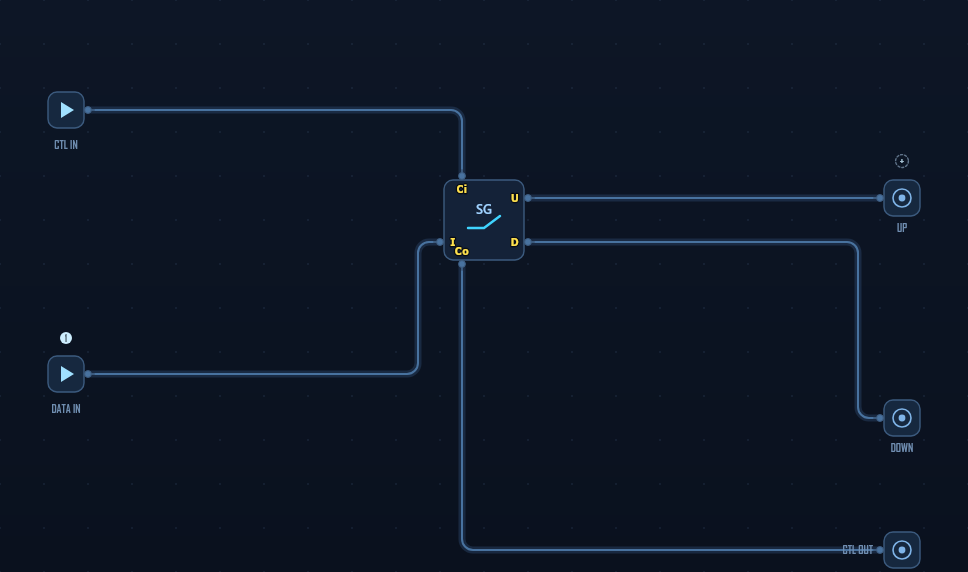
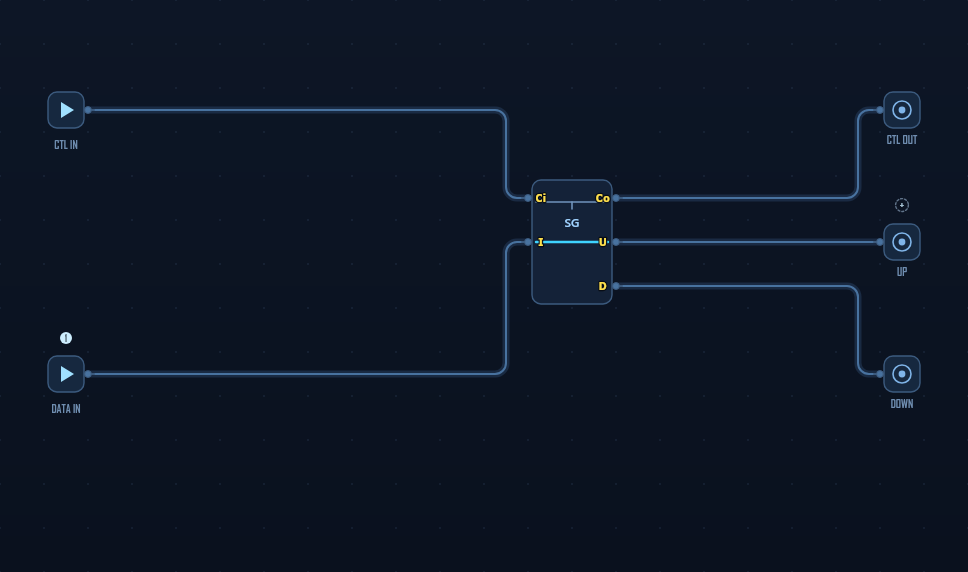
w2l6 rebuilt + schedule fix: SUITE FULLY GREEN (479 + 196)
SG re-seated at (8,3) mirrored with the A-and-B output detectors adjacent to
its west ports (¬A·B above A·B, matching w2l5's high/low roads); reference
takes the natural direct routes — no crossings, no length tuning needed.

Case schedule: CONST 1 now launches dt 2.5 after B (all four cases). Measured
rationale: the rDup transition table requires the final M to arrive BETWEEN
the two returning copies, and at the old schedule the feasible wire-length
window was ~empty under the 100-seed jitter gate (every layout candidate
failed within 0.5 ps — including, structurally, natural player builds).
Spacing the copies widens the M-threading window: the natural build now
certifies across +-4 units of rail length and +4 of SG-path length. Intro and
hint texts updated to tell the true story (M threads the gap; direct routes
work). Reference gallery regenerated for all five rebuilt W2 levels.

Changed region(s): [[0.4029, 0.1783, 0.9607, 1.0], [0.5579, 0.1486, 0.9607, 0.535], [0.8678, 0.6241, 0.9607, 0.8024]]

diff --git a/js/levels.js b/js/levels.js
@@ -316,14 +316,14 @@ version of a <b>Duplicator</b> can reduce the two A’s back to a single copy, p
       bipolar: false,
       intro: `The capstone. You built a <b>Duplicator</b> (W2·4) and a switch-gate <b>AND</b> (W2·5); now assemble the whole Bennett construction — compute the duplicated copies of A, use them in the switch gate, <i>then uncompute</i> — so all that remains at the end is the answer plus a single clean copy of A.
 <br><br>Three chips are bolted down for you: a <b>Dup</b> (×2), the <b>SG</b>, and an <b>rDup</b> (the Duplicator run backward). Dup copies <b>A</b> into two pulses (it needs <b>M</b> and a constant <b>1</b>). The two copies drive the SG’s control while <b>B</b> slips in between — computing <b>A·B</b> and <b>¬A·B</b>. Then the spent copies, the <b>¬X</b> garbage, and the <b>M</b> passes feed the rDup, which folds it all back into one <b>A</b>, a regenerated <b>1</b>, and the <b>M</b> stream.
-<br><br>No clock — <b>order</b> is everything. The rDup only accepts <b>M first</b>, so the copy path (out through the SG and back) must run <i>long enough to fall behind</i> the direct M line. Give the final <b>M</b> a generous gap so the earlier pulses settle before it resets the gates.`,
-      hint: 'Dup: A→X, M→M, 1→C. Copies XX→SG.Ci; B→SG.I; SG.D→A·B, SG.U→¬A·B. Spent copies SG.Co→rDup.XX; Dup.M→rDup.M; Dup.¬X→rDup.¬X. Out: rDup.X→A OUT, rDup.M→M OUT, rDup.1→1 OUT. Make the SG.Co→rDup loop long so M beats the copies into the rDup.',
+<br><br>No clock — <b>order</b> is everything. The rDup only accepts <b>M first</b> — the copies’ longer road out through the SG makes them fall behind the direct M line on its own. The constant <b>1</b> launches a beat late, so the two returning copies stay well apart — and the final <b>M</b> threads the gap <i>between</i> them to reset the gates.`,
+      hint: 'Dup: A→X, M→M, 1→C. Copies XX→SG.Ci; B→SG.I; SG.D→A·B, SG.U→¬A·B. Spent copies SG.Co→rDup.XX; Dup.M→rDup.M; Dup.¬X→rDup.¬X. Out: rDup.X→A OUT, rDup.M→M OUT, rDup.1→1 OUT. Direct routes work — the schedule already spaces the copies so each M finds its slot.',
       success: `Universal reversible computing, fully assembled: AND and all its garbage computed, then <i>uncomputed</i>, leaving one clean copy of A. That is the 2017 paper’s construction end to end — Landauer’s limit dodged, Bennett’s trick made physical.<br><br>Notice how complicated a construction this is just to get an <b>AND</b>! It suffices to show that asynchronous ballistic reversible computing is <i>universal</i> — but we’d really like to do logic without all those extra constant streams. In the next two worlds, we’ll figure out how to do that, using primitives we can implement in <i>actual</i> superconducting circuits!`,
       notebook: ['universality', 'and', 'garbage'],
       fixed: [
         el('L_B', 'LAUNCHER', 1, 2), el('L_A', 'LAUNCHER', 1, 7), el('L_M', 'LAUNCHER', 1, 9), el('L_1', 'LAUNCHER', 1, 12),
-        el('dup', 'DUP', 4, 7), el('sg', 'TSG', 7, 2, 2, { mir: true }), el('rdup', 'RDUP', 17, 7),
-        el('D_and', 'DETECTOR', 12, 2), el('D_nand', 'DETECTOR', 12, 5),
+        el('dup', 'DUP', 4, 7), el('sg', 'TSG', 8, 3, 0, { mir: true }), el('rdup', 'RDUP', 17, 7),
+        el('D_nand', 'DETECTOR', 6, 4, 2), el('D_and', 'DETECTOR', 6, 5, 2),
         el('D_A', 'DETECTOR', 22, 5), el('D_M', 'DETECTOR', 22, 8), el('D_1', 'DETECTOR', 22, 11),
       ],
       labels: {
@@ -335,24 +335,24 @@ version of a <b>Duplicator</b> can reduce the two A’s back to a single copy, p
         {
           name: 'A=1 · B=1', inputs: [
             { launcher: 'L_A', pol: P }, { launcher: 'L_M', pol: P }, { launcher: 'L_B', pol: P },
-            { launcher: 'L_1', pol: P }, { launcher: 'L_M', pol: P, dt: 2.5 },
+            { launcher: 'L_1', pol: P, dt: 2.5 }, { launcher: 'L_M', pol: P, dt: 2.5 },
           ], expect: { D_and: [P], D_nand: [], D_A: [P], D_M: [P, P], D_1: [P] },
         },
         {
           name: 'A=1 · B=0', inputs: [
             { launcher: 'L_A', pol: P }, { launcher: 'L_M', pol: P },
-            { launcher: 'L_1', pol: P }, { launcher: 'L_M', pol: P, dt: 2.5 },
+            { launcher: 'L_1', pol: P, dt: 2.5 }, { launcher: 'L_M', pol: P, dt: 2.5 },
           ], expect: { D_and: [], D_nand: [], D_A: [P], D_M: [P, P], D_1: [P] },
         },
         {
           name: 'A=0 · B=1', inputs: [
             { launcher: 'L_M', pol: P }, { launcher: 'L_B', pol: P },
-            { launcher: 'L_1', pol: P }, { launcher: 'L_M', pol: P, dt: 2.5 },
+            { launcher: 'L_1', pol: P, dt: 2.5 }, { launcher: 'L_M', pol: P, dt: 2.5 },
           ], expect: { D_and: [], D_nand: [P], D_A: [], D_M: [P, P], D_1: [P] },
         },
         {
           name: 'A=0 · B=0', inputs: [
-            { launcher: 'L_M', pol: P }, { launcher: 'L_1', pol: P }, { launcher: 'L_M', pol: P, dt: 2.5 },
+            { launcher: 'L_M', pol: P }, { launcher: 'L_1', pol: P, dt: 2.5 }, { launcher: 'L_M', pol: P, dt: 2.5 },
           ], expect: { D_and: [], D_nand: [], D_A: [], D_M: [P, P], D_1: [P] },
         },
       ],
